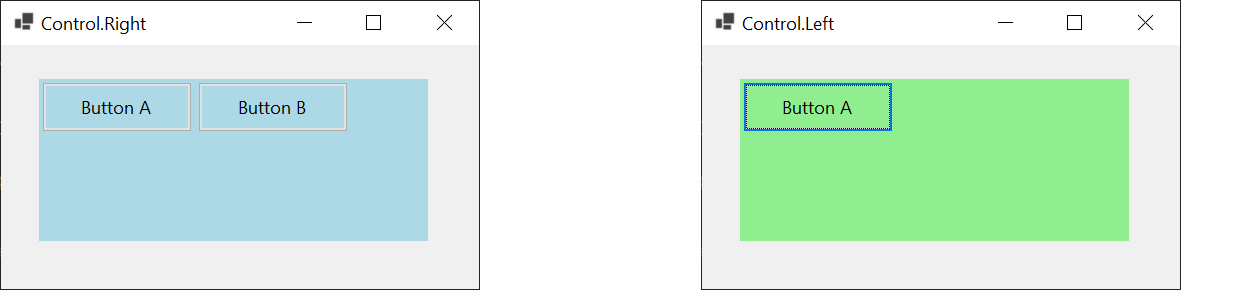
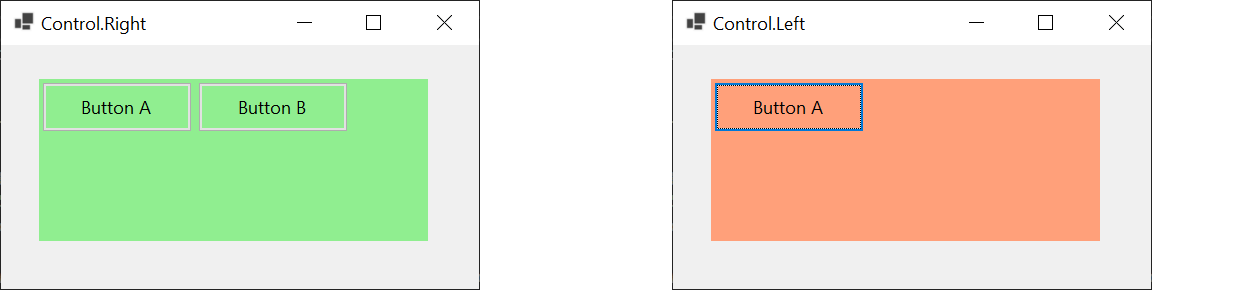
LightGreen for add, LightSalmon for remove.

diff --git a/application-hook-ctrl-up-down/UserControlResponder.cs b/application-hook-ctrl-up-down/UserControlResponder.cs
@@ -30,7 +30,7 @@ namespace application_hook_ctrl_up_down
 
         private void onControlLeft(object sender, EventArgs e)
         {           
-            BackColor = Color.LightGreen;
+            BackColor = Color.LightSalmon;
             BorderStyle = BorderStyle.None;
             if(flowLayoutPanel.Controls.Count != 0)
             {
@@ -48,7 +48,7 @@ namespace application_hook_ctrl_up_down
         }
         private void onControlRight(object sender, EventArgs e)
         {
-            BackColor = Color.LightBlue;
+            BackColor = Color.LightGreen;
             BorderStyle = BorderStyle.None;
             var button = new Button
                 {
